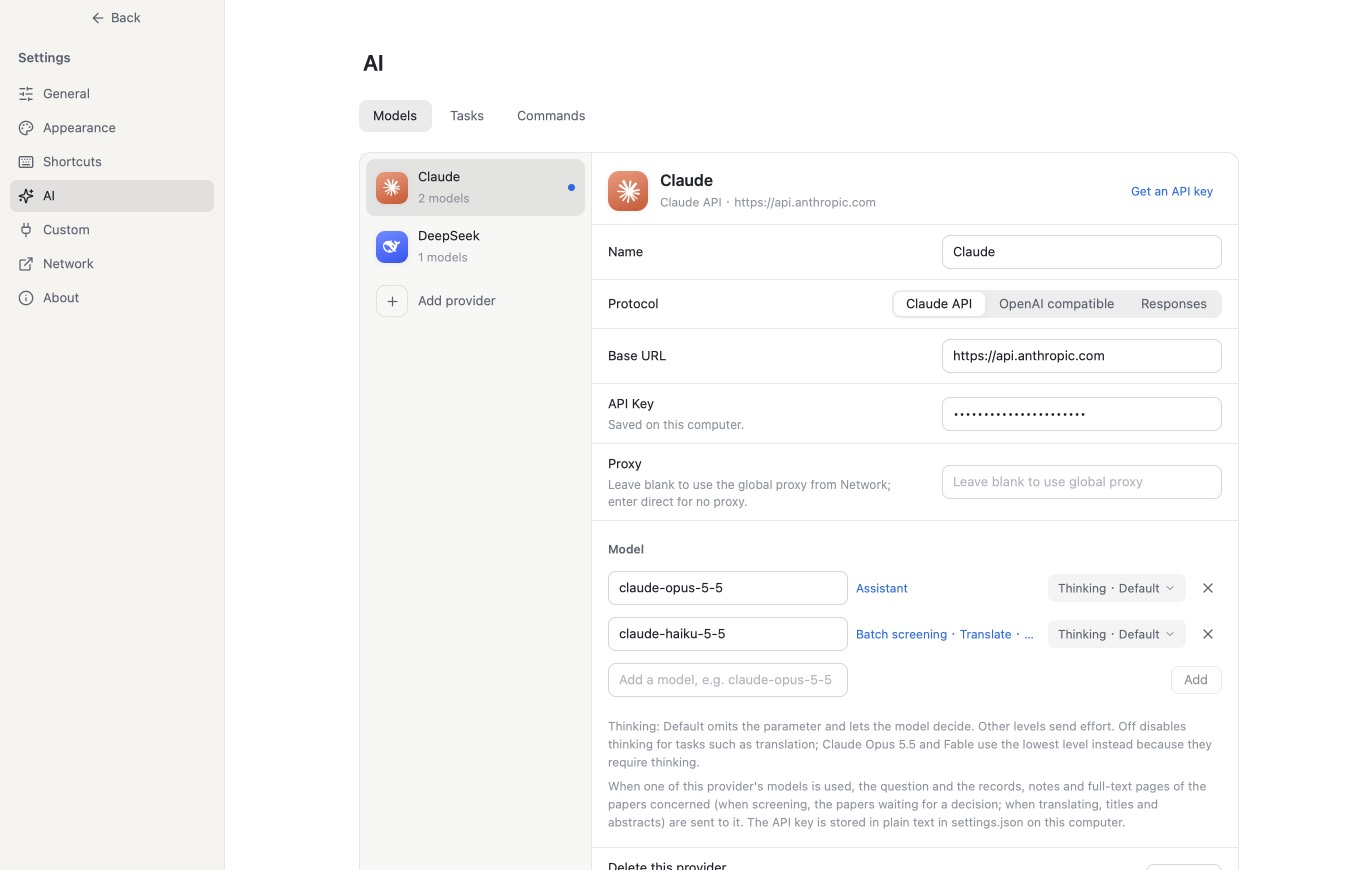
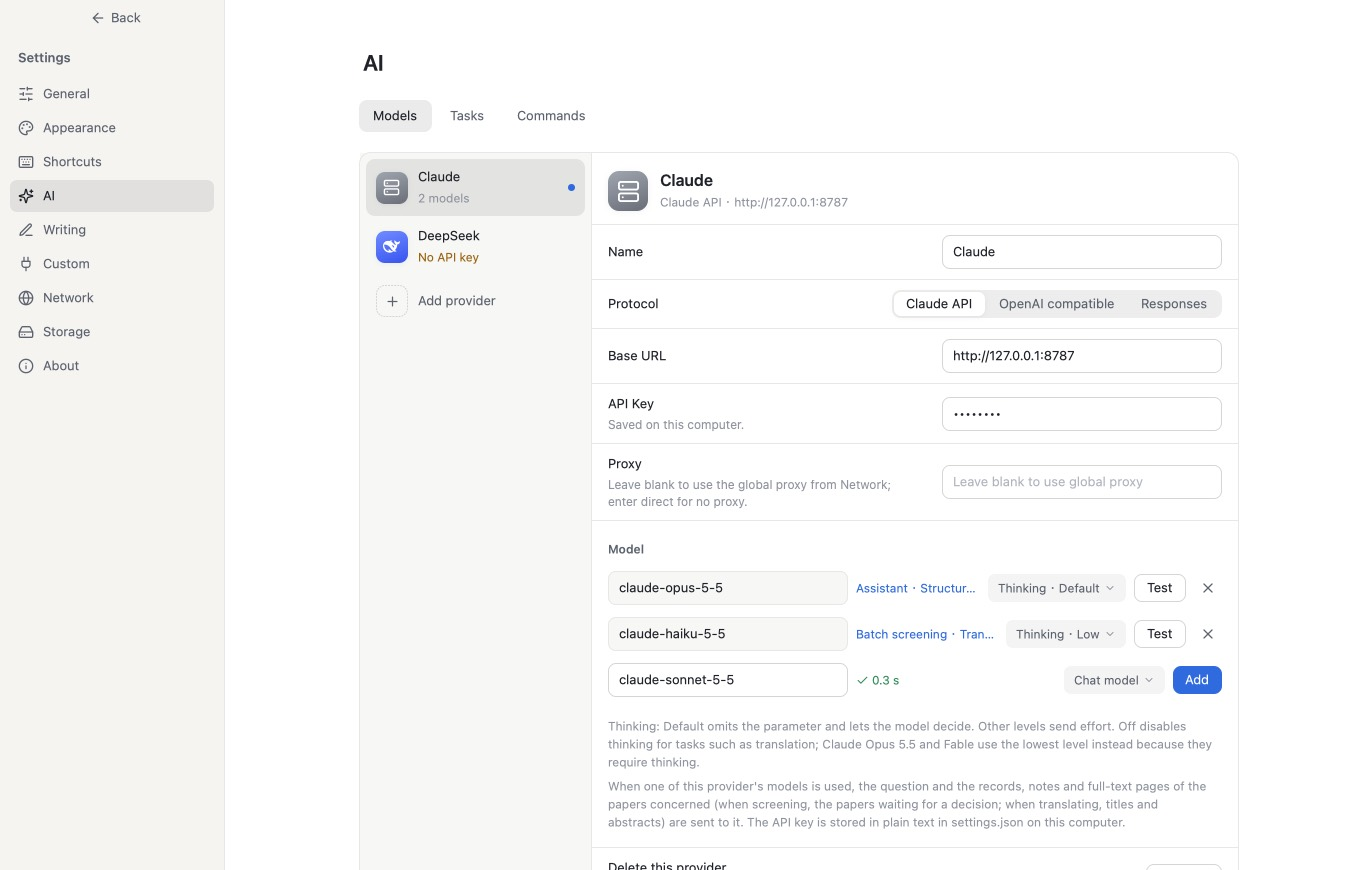
tutorials: 从一个课题开始 §1 tests a model before adding it, as v0.21.0 does
v0.21.0 (#322) replaced the box's 「添加」 with 「测试」, which turns into
「添加」 once the model answers, gave every added model its own 「测试」 and
locked its name. Step 1 still said to type a name and click 「添加」, and
its figure showed names in editable boxes. The home page's 设置 is a gear
in a row of icons since #330.

- Step 1, both languages: test, then add; what a failure says; the
  kind menu; a name that is wrong is deleted and added again; each
  model's own 「测试」 after a change of key, address or thinking.
- Figure 1 retaken with v0.21.0 in both languages against mock_model:
  two added models with 「测试」, a third passed (✓ 0.3 秒) with 「添加」.
- Colophons say which run Figure 1 is from.

diff --git a/site/en/tutorials/start.html b/site/en/tutorials/start.html
@@ -64,18 +64,18 @@
       <section id="s1">
         <h2><i>1</i>Install, set up a model</h2>
         <p>Download from the <a href="https://github.com/xuzhougeng/WispStudy/releases/latest">release page</a>: on macOS it is a <code>.dmg</code>, and after opening it you drag Wisp Study into the Applications folder. Windows has an installer, <code>-setup.exe</code> (it installs for the current user and needs no administrator rights), and a portable <code>.zip</code>. Drafting queries and screening both call a model. Wisp Study does not ship one, so first connect your own in Settings.</p>
-        <p>Click “Settings” at the top right of the home page (<kbd>⌘</kbd> + <kbd>,</kbd>, or <kbd>Ctrl</kbd> + <kbd>,</kbd> on Windows) and go to “AI”. The “Models” tab lists the model providers on the left; here they are “Claude” and “DeepSeek”. A provider that has no API key yet is marked “No API key”: open it and fill in the key. For another provider, click “Add provider” and choose from the list, or choose “Other OpenAI-compatible service”:</p>
+        <p>Click “Settings”, the gear that is last in the row of icons at the top right of the home page (<kbd>⌘</kbd> + <kbd>,</kbd>, or <kbd>Ctrl</kbd> + <kbd>,</kbd> on Windows) and go to “AI”. The “Models” tab lists the model providers on the left; here they are “Claude” and “DeepSeek”. A provider that has no API key yet is marked “No API key”: open it and fill in the key. For another provider, click “Add provider” and choose from the list, or choose “Other OpenAI-compatible service”:</p>
         <ul>
           <li><b>Protocol</b>: one of Claude API, OpenAI compatible and Responses. Any of the three works.</li>
           <li><b>Base URL</b>: for an OpenAI-compatible provider, write it up to <code>/v1</code>.</li>
           <li><b>API Key</b>: leave it empty to read the matching environment variable, for example <code>OPENAI_API_KEY</code>.</li>
-          <li><b>Model</b>: in the empty box under “Model”, enter the model name the provider requires and click “Add”. One provider can hold several models, and each model has its own thinking level.</li>
+          <li><b>Model</b>: in the empty box under “Model”, enter the model name the provider requires and click “Test” on the right. The app sends the model a very short message. If it gets through, the name gets a tick with the seconds it took, and the button turns into “Add”: click it and the model is added. If not, it is marked “Failed” with the reason under it, most often a wrong name, base URL or key; put it right and test again. The menu to the left of “Test” is the kind of model, recognised from the name by default (chat, image or judging model); here both are chat models. An image model is not tested and can be added straight away.</li>
         </ul>
-        <p>There is no save button; changes are saved as you make them. When “No API key” under the provider's name is replaced by the number of models, it is ready to use.</p>
+        <p>Once added, a model's name cannot be changed: if it is wrong, delete it with the × at the end of its row and add it again. One provider can hold several models. Each model has its own thinking level and its own “Test” at the end of its row, to try it again after you change the key, the base URL or the thinking level. There is no save button; changes are saved as you make them. When “No API key” under the provider's name is replaced by the number of models, it is ready to use.</p>
 
         <figure class="shot">
-          <img src="../../img/en/t/start-01-models.jpg" width="1372" height="870" loading="lazy" alt="The “Models” tab of Settings › AI: the providers “Claude” (2 models) and “DeepSeek” (1 models) on the left; on the right of the selected “Claude” provider are its name, the protocol “Claude API”, the base URL, the API key, the proxy, and its two models, claude-opus-5-5 and claude-haiku-5-5, each with a thinking level.">
-          <figcaption><b>Figure 1.</b> A provider named “Claude” that uses the “Claude API” protocol and holds two models. The blue text on the right of a model name says which tasks it handles for now: “Assistant” for the first, “Batch screening”, “Translate” and more for the second.</figcaption>
+          <img src="../../img/en/t/start-01-models.jpg" width="1372" height="870" loading="lazy" alt="The “Models” tab of Settings › AI: the providers “Claude” (2 models) and “DeepSeek” (No API key) on the left; on the right of the selected “Claude” provider are its name, the protocol “Claude API”, the base URL, the API key, the proxy, and its two models, claude-opus-5-5 and claude-haiku-5-5, each with a thinking level and a “Test” button. The last row holds claude-sonnet-5-5, tested (✓ 0.3 s), of the kind “Chat model”, its button now “Add”.">
+          <figcaption><b>Figure 1.</b> A provider named “Claude” that uses the “Claude API” protocol and holds two models; a third has passed its test and waits to be added. The blue text on the right of a model name says which tasks it handles for now: “Assistant” for the first, “Batch screening”, “Translate” and more for the second.</figcaption>
         </figure>
 
         <p>One model is enough to get through the whole tutorial. Two more things were done this time. Under “Tasks”, “Assistant” uses claude-opus-5-5, while “Batch screening” and “Translate” use the smaller claude-haiku-5-5. And “Concurrent papers” was raised from the default 3 to 8, so that screening sends that many requests at once; lower it if the provider limits your rate.</p>
@@ -231,7 +231,7 @@
       </ol>
     </div>
     <div class="colophon">
-      <p><b>About this tutorial.</b> The screenshots were retaken on November 24, 2026 on macOS with v0.17.0, with the English interface and a stand-in model that answers by fixed rules, so the numbers in this tutorial are those of that run. A real model answers differently each time and the databases are updated every day, so the wording and numbers you see will differ a little. The steps are the same.</p>
+      <p><b>About this tutorial.</b> The screenshots were retaken on November 24, 2026 on macOS with v0.17.0, with the English interface and a stand-in model that answers by fixed rules, so the numbers in this tutorial are those of that run. Figure 1 was retaken on November 27, 2026 with v0.21.0, where a model is tested before it is added, against the same kind of stand-in model. A real model answers differently each time and the databases are updated every day, so the wording and numbers you see will differ a little. The steps are the same.</p>
       <p><b>The assistant can be wrong.</b> Its suggestions and answers need your confirmation; check key numbers and conclusions against the original.</p>
     </div>
   </div>

diff --git a/site/tutorials/start.html b/site/tutorials/start.html
@@ -64,18 +64,18 @@
       <section id="s1">
         <h2><i>1</i>安装，配置模型</h2>
         <p>从<a href="https://github.com/xuzhougeng/WispStudy/releases/latest">发布页</a>下载：macOS 是 <code>.dmg</code>，打开后把 Wisp Study 拖进「应用程序」；Windows 有安装版 <code>-setup.exe</code>（装在当前用户名下，不需要管理员权限）和便携版 <code>.zip</code>。拟检索式和筛选都要调用模型，Wisp Study 不自带模型，先在设置里接上你自己的。</p>
-        <p>点首页右上角的「设置」（<kbd>⌘</kbd> + <kbd>,</kbd>，Windows 上是 <kbd>Ctrl</kbd> + <kbd>,</kbd>），进入「AI」。「模型」一栏左边是模型服务，DeepSeek、Kimi、GLM 已经列着，各标着「缺 API Key」；用其中一家，点开它填上 API Key 即可。用别的服务就点「添加服务」，从列表里选，或选「其他 OpenAI 兼容服务」：</p>
+        <p>点首页右上角那排图标里最后一个，齿轮「设置」（<kbd>⌘</kbd> + <kbd>,</kbd>，Windows 上是 <kbd>Ctrl</kbd> + <kbd>,</kbd>），进入「AI」。「模型」一栏左边是模型服务，DeepSeek、Kimi、GLM 已经列着，各标着「缺 API Key」；用其中一家，点开它填上 API Key 即可。用别的服务就点「添加服务」，从列表里选，或选「其他 OpenAI 兼容服务」：</p>
         <ul>
           <li><b>接口</b>：Claude API、OpenAI 兼容、Responses 三选一。</li>
           <li><b>服务地址</b>：OpenAI 兼容的服务写到 <code>/v1</code>。</li>
           <li><b>API Key</b>：留空则读对应的环境变量，例如 <code>OPENAI_API_KEY</code>。</li>
-          <li><b>模型</b>：在「模型」下的空白框里填服务要求的模型名称，点「添加」。一个服务可以放几个模型，每个模型有自己的思考档位。</li>
+          <li><b>模型</b>：在「模型」下的空白框里填服务要求的模型名称，点右边的「测试」。应用给这个模型发一句很短的话：通了，名称旁打勾、写着用了几秒，按钮换成「添加」，再点一下就加上了；没通，标着「失败」，原因写在下面，多半是名称、地址或 Key 不对，改好再测。「测试」左边的菜单是模型的类型，默认按名称认出是对话、生图还是判断模型，本例都是对话模型；生图模型不测，直接「添加」。</li>
         </ul>
-        <p>没有保存按钮，改了就存。服务名下的「缺 API Key」换成了模型的个数，就可以用了。</p>
+        <p>加上的模型名称不能再改，写错了就点行尾的 × 删掉重加。一个服务可以放几个模型，每个模型有自己的思考档位，行尾也有自己的「测试」，以后改了 Key、地址或思考档位，点它再试一次。没有保存按钮，改了就存。服务名下的「缺 API Key」换成了模型的个数，就可以用了。</p>
 
         <figure class="shot">
-          <img src="../img/t/start-01-models.jpg" width="1372" height="867" loading="lazy" alt="设置 › AI 的「模型」一栏：左边是模型服务列表，选中的服务右边是名称、接口、服务地址、API Key、代理，以及它的两个模型和各自的思考档位。">
-          <figcaption><b>图 1</b>　一个 OpenAI 兼容的服务，放了两个模型。模型名右边的蓝字说明它眼下负责哪些任务。</figcaption>
+          <img src="../img/t/start-01-models.jpg" width="1372" height="870" loading="lazy" alt="设置 › AI 的「模型」一栏：左边是模型服务 Claude（2 个模型）、DeepSeek、Kimi、GLM（都缺 API Key）；选中的 Claude 右边是名称、接口「Claude API」、服务地址、API Key、代理，以及两个已添加的模型 claude-opus-5-5、claude-haiku-5-5，各有思考档位和「测试」按钮；最下面一行填着 claude-sonnet-5-5，测试通过（✓ 0.3 秒），类型是「对话模型」，按钮已经变成「添加」。">
+          <figcaption><b>图 1</b>　一个用「Claude API」接口的服务，放了两个模型，第三个测试通过、正等着「添加」。模型名右边的蓝字说明它眼下负责哪些任务。</figcaption>
         </figure>
 
         <p>一个模型就够走完全程。这次多做了两件事：在「任务」里把「翻译」交给一个把思考调低的小模型；把「同时阅读的篇数」从默认的 3 调到 8，筛选时同时发出这么多请求，服务限速时调小。</p>
@@ -231,7 +231,7 @@
       </ol>
     </div>
     <div class="colophon">
-      <p><b>关于这篇教程</b>　截图和数字来自 2026 年 11 月 10 日在 macOS 上用 v0.2.0 的一次实际操作，并在 11 月 17 日按 v0.10.0 核对、重截了界面变了的几张。模型每次的回答不一样，数据库也每天在更新，你照做时措辞和数字会有出入，步骤是一样的。</p>
+      <p><b>关于这篇教程</b>　截图和数字来自 2026 年 11 月 10 日在 macOS 上用 v0.2.0 的一次实际操作，并在 11 月 17 日按 v0.10.0 核对、重截了界面变了的几张。图 1 是 11 月 27 日用 v0.21.0 重截的，那时添加模型改成了先测试再添加；图里的服务指向本机一个按固定规则回答的替身模型。模型每次的回答不一样，数据库也每天在更新，你照做时措辞和数字会有出入，步骤是一样的。</p>
       <p><b>助手可能出错</b>　它的建议和回答都要你确认；关键的数字和结论请对照原文。</p>
     </div>
   </div>
